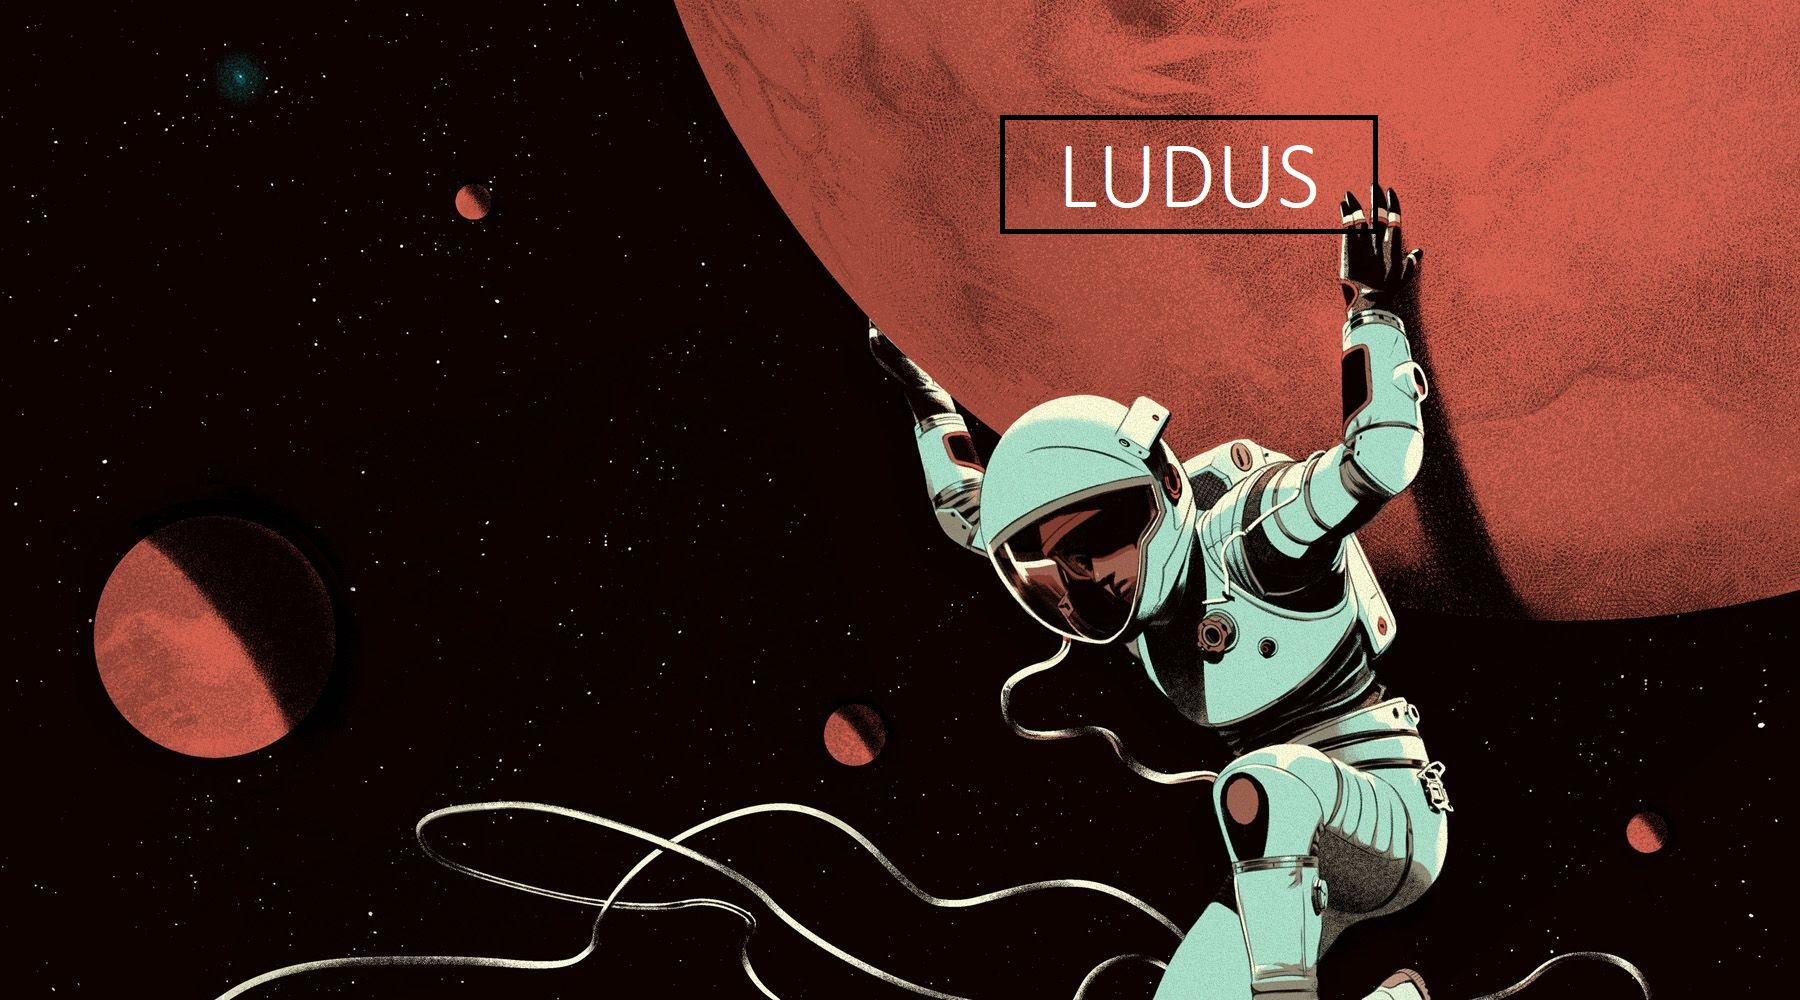
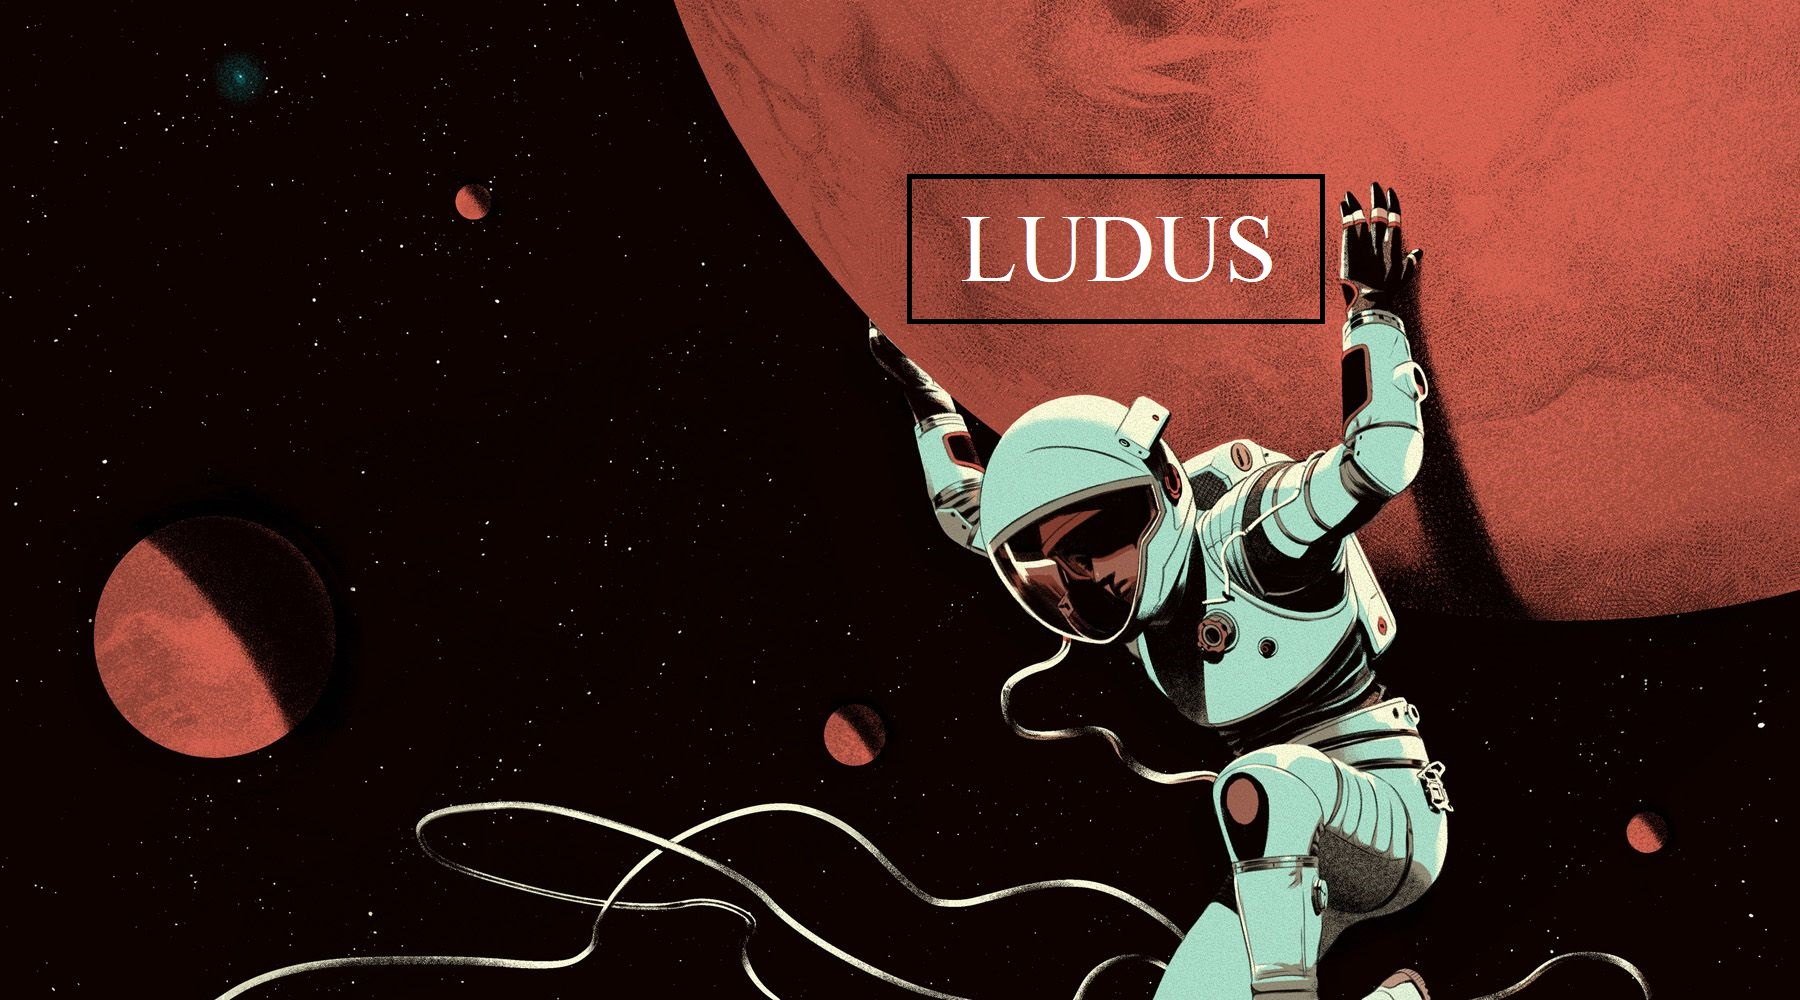
more styling

Changed region(s): [[0.4978, 0.093, 0.7778, 0.341]]

diff --git a/react-app/src/components/NavBar/nav.css b/react-app/src/components/NavBar/nav.css
@@ -22,6 +22,7 @@
     justify-content: center;
     position: absolute;
     width: 5em;
+    font-family:'Times New Roman', Times, serif;
 }
 
 .nav div{

diff --git a/react-app/src/components/Home/home.css b/react-app/src/components/Home/home.css
@@ -7,3 +7,7 @@
 .homePage a:hover{
     border: 1px solid whitesmoke
 }
+
+.homePage{
+    font-family:'Times New Roman', Times, serif;
+}

diff --git a/react-app/src/index.css b/react-app/src/index.css
@@ -5,6 +5,7 @@
 
 *{
     box-sizing: border-box;
+    font-family:'Times New Roman', Times, serif;
 }
 #root{
     position: absolute;
